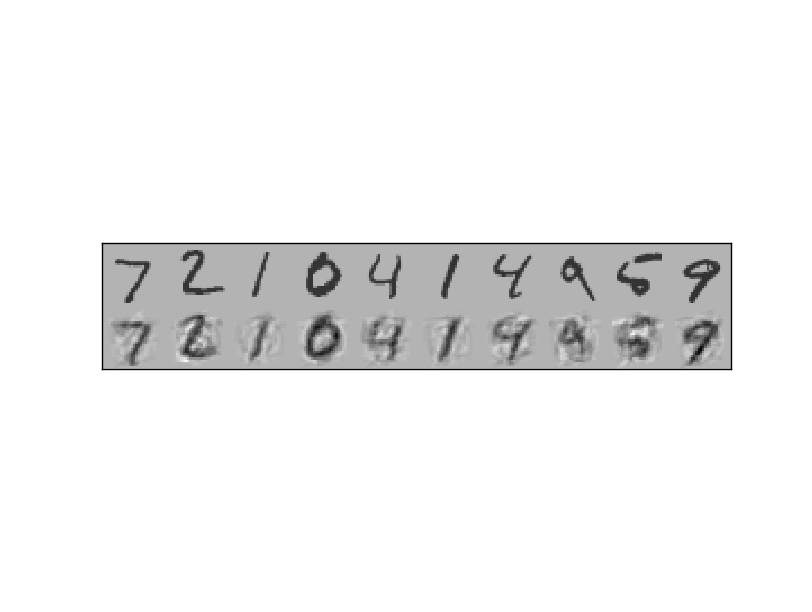
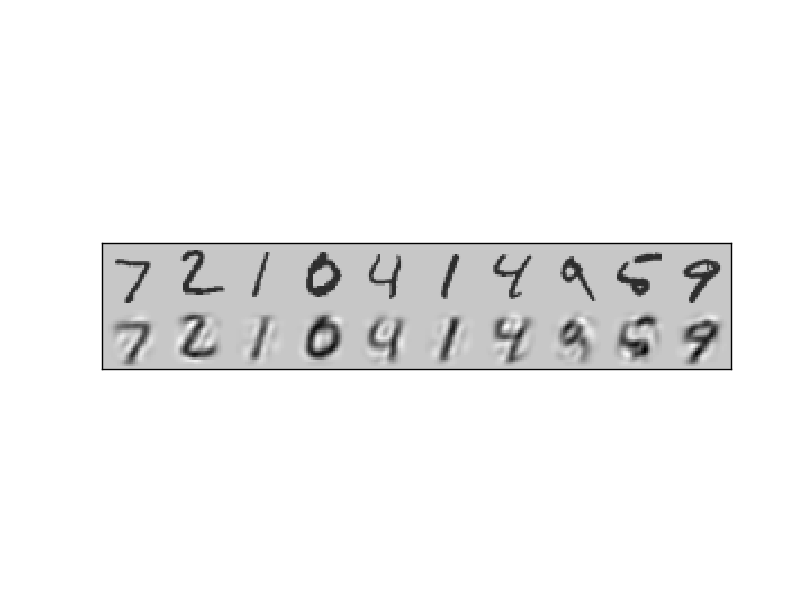
Minor changes

Changed region(s): [[0.1232, 0.4967, 0.8929, 0.6209]]

diff --git a/code/mnist_autoencoder.py b/code/mnist_autoencoder.py
@@ -33,7 +33,7 @@ def train_autoencoder(hidden_units, training_data):
     "Return a trained autoencoder."
     autoencoder_training_data = [(x, x) for x, _ in training_data]
     net = Network([784, hidden_units, 784])
-    net.SGD(autoencoder_training_data, 3, 10, 0.01, 0.05)
+    net.SGD(autoencoder_training_data, 6, 10, 0.007, 0.05)
     return net
 
 def plot_test_results(net, test_inputs, actual_test_results):
@@ -62,9 +62,9 @@ def classifier(hidden_units):
         mnist_loader.load_data_nn()
     net_ae = train_autoencoder(hidden_units, training_data)
     net_c = Network([784, hidden_units, 10])
-    net_c.biases = net_ae.biases[:2]+[np.random.randn(10, 1)/np.sqrt(10)]
-    net_c.weights = net_ae.weights[:2]+\
+    net_c.biases = net_ae.biases[:1]+[np.random.randn(10, 1)/np.sqrt(10)]
+    net_c.weights = net_ae.weights[:1]+\
         [np.random.randn(10, hidden_units)/np.sqrt(10)]
-    net_c.SGD(training_data, 3, 10, 0.01, 0.05)
+    net_c.SGD(training_data, 6, 10, 0.007, 0.05)
     print net_c.evaluate(test_inputs, actual_test_results)
     return net_c

diff --git a/code/mnist_pca.py b/code/mnist_pca.py
@@ -12,12 +12,12 @@ import mnist_loader
 import matplotlib
 import matplotlib.pyplot as plt
 import numpy as np
-from sklearn.decomposition import PCA
+from sklearn.decomposition import RandomizedPCA
 
 
 # Training
 training_data, test_inputs, actual_test_results = mnist_loader.load_data_nn()
-pca = PCA(n_components=30)
+pca = RandomizedPCA(n_components=30)
 nn_images = [x for (x, y) in training_data]
 pca_images = np.concatenate(nn_images, axis=1).transpose()
 pca_r = pca.fit(pca_images)
